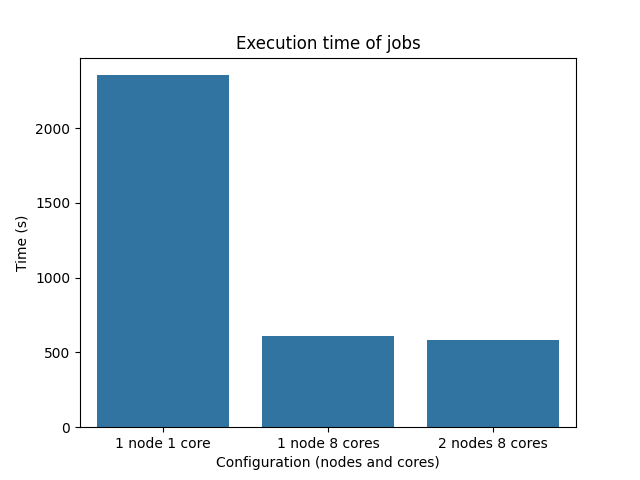
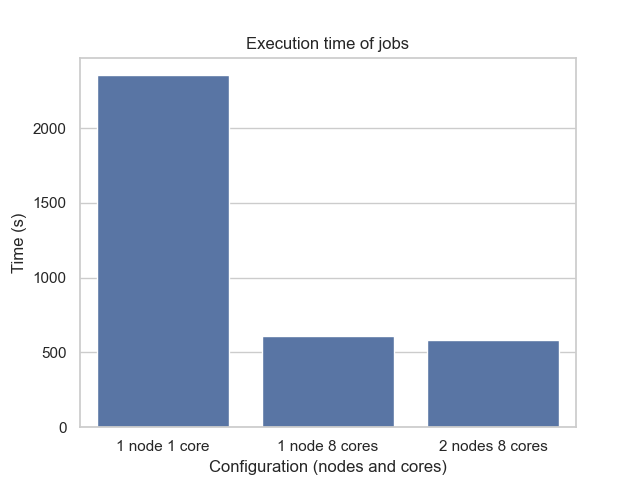
feat: add style to plot

diff --git a/plot.py b/plot.py
@@ -2,6 +2,8 @@ import matplotlib.pyplot as plt
 import polars as pl
 import seaborn as sns
 
+sns.set_theme(style="whitegrid")
+
 time_2n8c = "9m40.786s"
 time_1n8c = "10m7.947s"
 time_1n1c = "39m14.164s"
